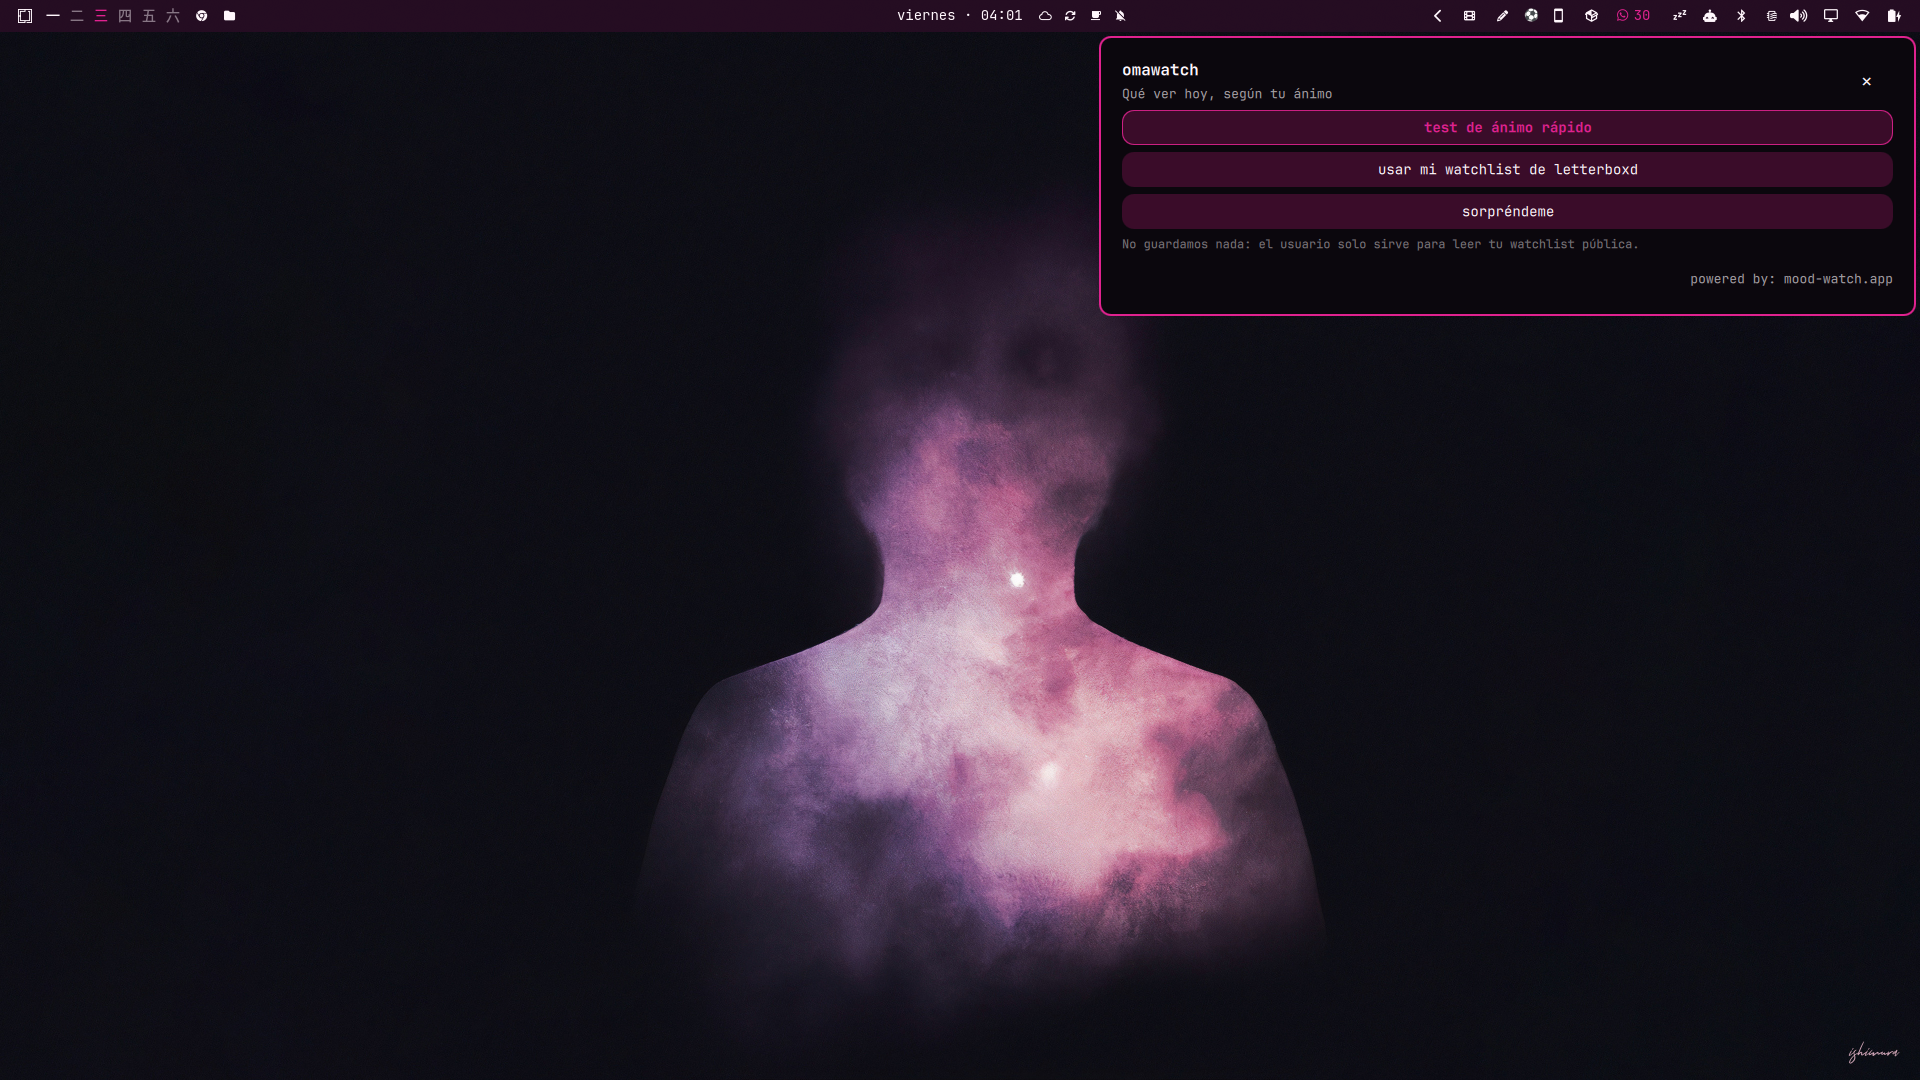
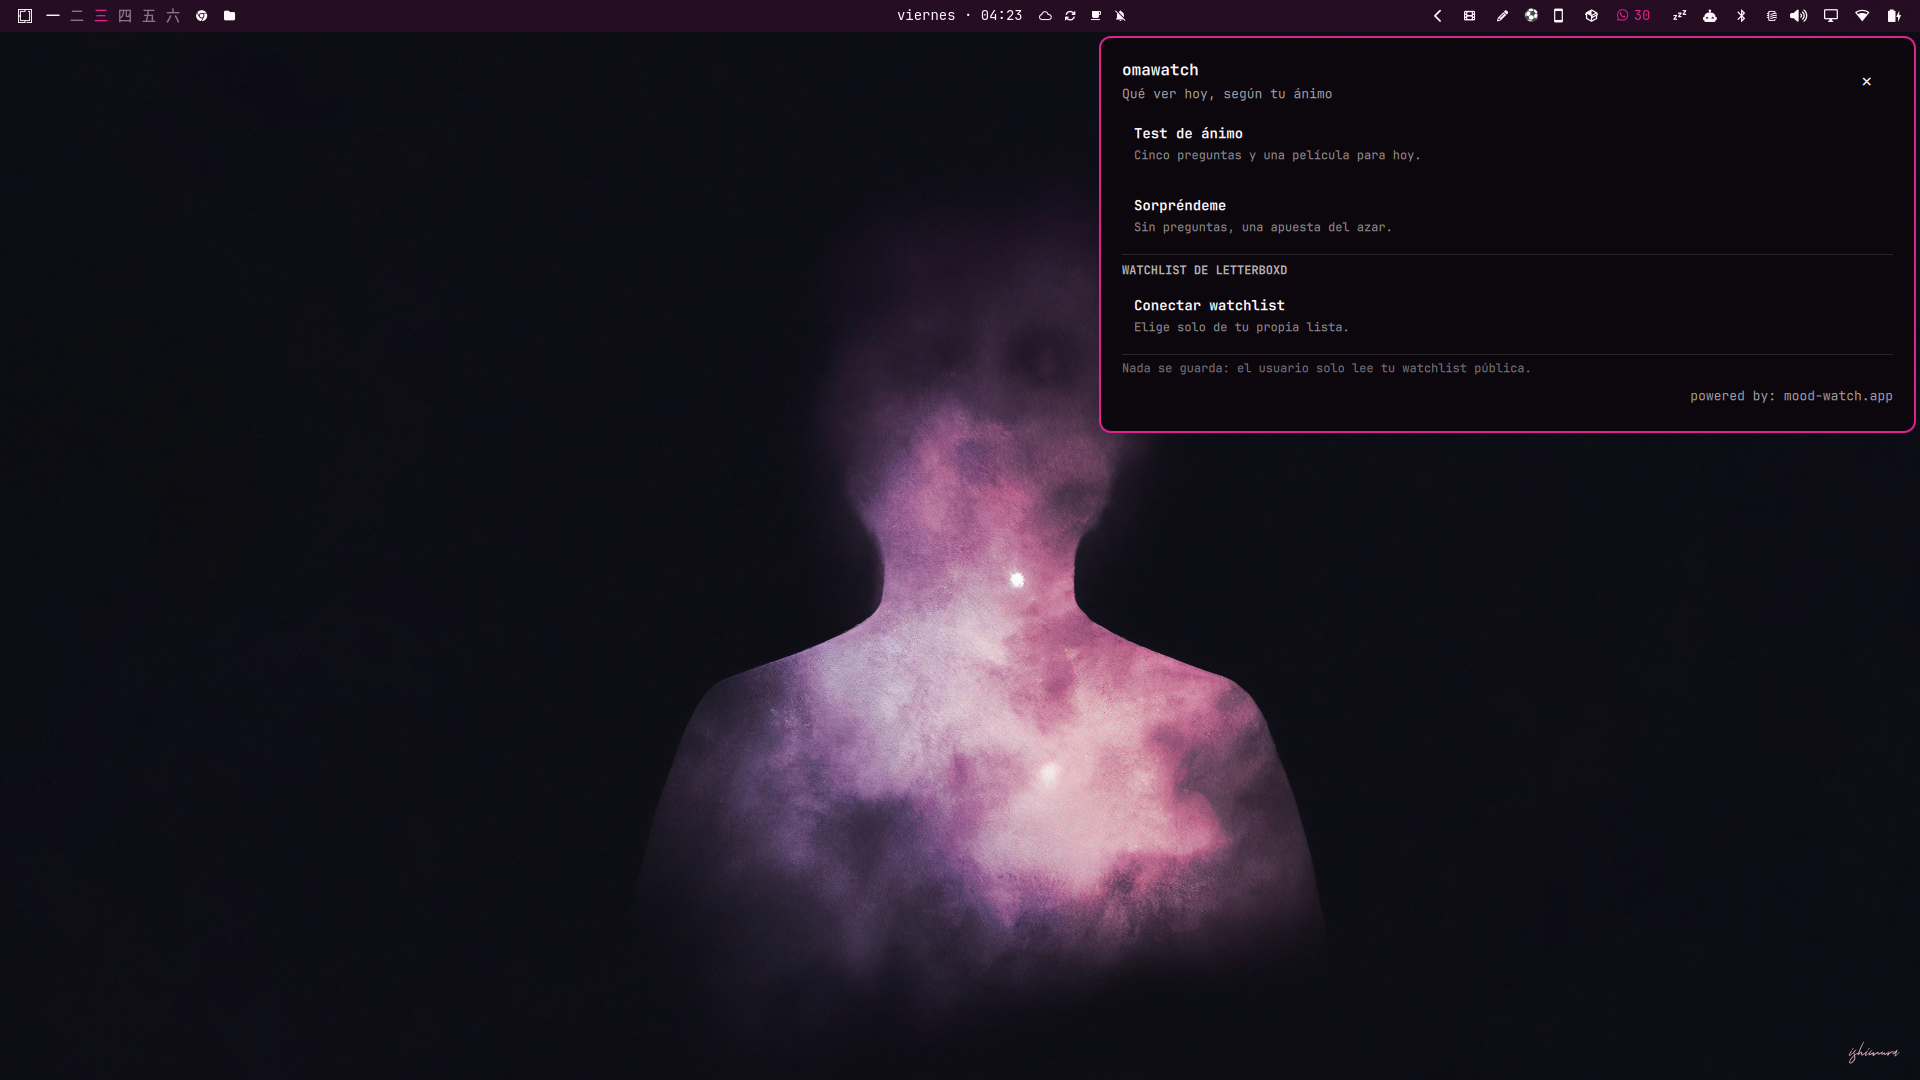
release: omawatch 1.0.4 with first-party panel grammar

Changed region(s): [[0.5625, 0.0917, 1.0, 0.3972], [0.6562, 0.3361, 0.7812, 0.3667], [0.875, 0.2444, 0.9688, 0.275]]

diff --git a/Omawatch.qml b/Omawatch.qml
@@ -18,7 +18,7 @@ Item {
       ? Style.space(340)
       : root.phase === "letterboxd" || root.phase === "syncing"
         ? Style.space(460)
-        : Style.space(240)
+        : Style.space(340)
   property bool opened: false
   property bool busy: false
   property int requestId: 0
@@ -39,6 +39,24 @@ Item {
   property bool usingWatchlist: false
 
   function words(es, en) { return root.isSpanish ? es : en }
+
+  function isChipQuestion() {
+    return root.currentQuestion && ["runtime", "tone"].indexOf(root.currentQuestion.key) !== -1
+  }
+
+  function quizOptionLabel(option) {
+    if (!root.currentQuestion || !option) return ""
+    if (root.currentQuestion.key === "runtime") {
+      if (option.value === "short") return root.words("corto", "short")
+      if (option.value === "medium") return root.words("medio", "medium")
+      if (option.value === "long") return root.words("largo", "long")
+    }
+    if (root.currentQuestion.key === "tone") {
+      if (option.value === "dark") return root.words("oscuro", "dark")
+      if (option.value === "light") return root.words("luminoso", "light")
+    }
+    return root.isSpanish ? option.es : option.en
+  }
 
   readonly property var quiz: [
     {
@@ -387,6 +405,65 @@ Item {
     onTriggered: root.pollSync()
   }
 
+  // Display-panel action row: full-width hover surface with a bold title and
+  // a dimmed one-line description. Mirrors the first-party row grammar.
+  component ActionRow: CursorSurface {
+    id: actionRow
+
+    property string title: ""
+    property string description: ""
+    property bool enabled: true
+    signal clicked()
+
+    implicitHeight: actionContent.implicitHeight + Style.spacing.rowPaddingX * 2
+    foreground: Color.menu.text
+    accent: Color.accent
+    radius: Style.cornerRadius
+
+    MouseArea {
+      id: actionMouse
+      anchors.fill: parent
+      enabled: actionRow.enabled
+      cursorShape: actionRow.enabled ? Qt.PointingHandCursor : Qt.ArrowCursor
+      onClicked: if (actionRow.enabled) actionRow.clicked()
+    }
+
+    Column {
+      id: actionContent
+      anchors.left: parent.left
+      anchors.right: parent.right
+      anchors.verticalCenter: parent.verticalCenter
+      anchors.leftMargin: Style.space(10)
+      anchors.rightMargin: Style.space(10)
+      spacing: Style.spacing.xs
+
+      Text {
+        textFormat: Text.PlainText
+        width: parent.width
+        text: actionRow.title
+        color: actionRow.enabled ? actionRow.foreground : Qt.darker(actionRow.foreground, 2.0)
+        font.family: Style.font.menuFamily
+        font.pixelSize: Style.font.body
+        font.bold: true
+        elide: Text.ElideRight
+        maximumLineCount: 1
+      }
+
+      Text {
+        textFormat: Text.PlainText
+        width: parent.width
+        visible: actionRow.description !== ""
+        text: actionRow.description
+        color: actionRow.foreground
+        opacity: actionRow.enabled ? 0.55 : 0.3
+        font.family: Style.font.menuFamily
+        font.pixelSize: Style.font.caption
+        elide: Text.ElideRight
+        maximumLineCount: 1
+      }
+    }
+  }
+
   PanelWindow {
     id: panel
     screen: Quickshell.screens[0]
@@ -551,73 +628,89 @@ Item {
             width: content.width
             spacing: Style.spacing.md
 
-            // HOME
+            // HOME — Display-panel grammar: sections, dividers, label rows.
             Column {
               width: parent.width
               visible: root.phase === "home"
-              spacing: Style.spacing.md
+              spacing: Style.spacing.sm
 
-              Button {
+              opacity: root.busy ? 0.45 : 1.0
+              Behavior on opacity { NumberAnimation { duration: 150 } }
+
+              ActionRow {
                 width: parent.width
-                selected: true
-                active: !root.busy
-                text: root.words("test de ánimo rápido", "quick mood test")
-                tooltipText: root.words("Cinco preguntas y te recomiendo una película.", "Five questions and I recommend a film.")
+                enabled: !root.busy
+                title: root.words("Test de ánimo", "Quick mood test")
+                description: root.words("Cinco preguntas y una película para hoy.", "Five questions and one film for tonight.")
                 onClicked: root.startQuiz(false)
               }
 
-              Button {
+              ActionRow {
                 width: parent.width
-                active: !root.busy
-                visible: root.watchlistToken === ""
-                text: root.words("usar mi watchlist de letterboxd", "use my letterboxd watchlist")
-                tooltipText: root.words("Conecta tu cuenta y elige de tu propia lista.", "Connect your account and pick from your own list.")
-                onClicked: { root.phase = "letterboxd"; root.status = "" }
+                enabled: !root.busy
+                title: root.words("Sorpréndeme", "Surprise me")
+                description: root.words("Sin preguntas, una apuesta del azar.", "No questions, a random wager.")
+                onClicked: root.surpriseMe()
               }
+
+              PanelSeparator { foreground: Color.menu.text }
 
               Column {
                 width: parent.width
-                visible: root.watchlistToken !== ""
-                spacing: Style.spacing.sm
+                spacing: Style.spacing.xs
 
-                Button {
+                PanelSectionHeader {
                   width: parent.width
-                  selected: true
-                  active: !root.busy
-                  text: root.words("elegir de mi watchlist", "pick from my watchlist")
-                  tooltipText: root.words("Test de ánimo + tu watchlist de Letterboxd.", "Mood test + your Letterboxd watchlist.")
-                  onClicked: root.startQuiz(true)
+                  foreground: Color.menu.text
+                  fontFamily: Style.font.menuFamily
+                  text: root.watchlistToken !== ""
+                    ? root.words("CUENTA · @" + root.username.toUpperCase(), "ACCOUNT · @" + root.username.toUpperCase())
+                    : root.words("WATCHLIST DE LETTERBOXD", "LETTERBOXD WATCHLIST")
                 }
 
-                Text {
-                  textFormat: Text.PlainText
+                ActionRow {
                   width: parent.width
-                  text: root.words("Conectado como @" + root.username, "Connected as @" + root.username)
-                  color: Color.menu.text
-                  opacity: 0.55
-                  font.family: Style.font.menuFamily
-                  font.pixelSize: Style.font.caption
+                  enabled: !root.busy
+                  visible: root.watchlistToken === ""
+                  title: root.words("Conectar watchlist", "Connect watchlist")
+                  description: root.words("Elige solo de tu propia lista.", "Pick only from your own list.")
+                  onClicked: { root.phase = "letterboxd"; root.status = "" }
                 }
 
-                Button {
-                  text: root.words("desconectar", "disconnect")
-                  active: !root.busy
-                  onClicked: root.disconnectLetterboxd()
+                Row {
+                  width: parent.width
+                  visible: root.watchlistToken !== ""
+                  height: disconnectBtn.height
+                  spacing: Style.spacing.md
+
+                  ActionRow {
+                    id: pickWlBtn
+                    width: parent.width - disconnectBtn.width - parent.spacing
+                    enabled: !root.busy
+                    title: root.words("Elegir de mi watchlist", "Pick from my watchlist")
+                    description: root.words("Test de ánimo sobre tu lista.", "Mood test over your list.")
+                    onClicked: root.startQuiz(true)
+                  }
+
+                  PanelActionButton {
+                    id: disconnectBtn
+                    anchors.verticalCenter: parent.verticalCenter
+                    iconText: "×"
+                    foreground: Color.menu.text
+                    fontFamily: Style.font.menuFamily
+                    tooltipText: root.words("Desconectar watchlist", "Disconnect watchlist")
+                    enabled: !root.busy
+                    onClicked: root.disconnectLetterboxd()
+                  }
                 }
               }
 
-              Button {
-                width: parent.width
-                active: !root.busy
-                text: root.words("sorpréndeme", "surprise me")
-                tooltipText: root.words("Sin preguntas, una apuesta del azar.", "No questions, a random wager.")
-                onClicked: root.surpriseMe()
-              }
+              PanelSeparator { foreground: Color.menu.text }
 
               Text {
                 textFormat: Text.PlainText
                 width: parent.width
-                text: root.words("No guardamos nada: el usuario solo sirve para leer tu watchlist pública.", "Nothing is stored: the username is only used to read your public watchlist.")
+                text: root.words("Nada se guarda: el usuario solo lee tu watchlist pública.", "Nothing is stored: the username only reads your public watchlist.")
                 color: Color.menu.text
                 opacity: 0.45
                 font.family: Style.font.menuFamily
@@ -626,11 +719,14 @@ Item {
               }
             }
 
-            // QUIZ
+            // QUIZ — chips for discrete axes, buttons for open ones.
             Column {
               width: parent.width
               visible: root.phase === "quiz"
               spacing: Style.spacing.md
+
+              opacity: root.busy ? 0.45 : 1.0
+              Behavior on opacity { NumberAnimation { duration: 150 } }
 
               Text {
                 textFormat: Text.PlainText
@@ -643,7 +739,24 @@ Item {
                 wrapMode: Text.Wrap
               }
 
+              ButtonGroup {
+                width: parent.width
+                visible: root.isChipQuestion()
+                focusable: false
+                enabled: !root.busy
+                foreground: Color.menu.text
+                background: Color.menu.background
+                accent: Color.accent
+                fontFamily: Style.font.menuFamily
+                value: ""
+                options: root.currentQuestion ? root.currentQuestion.options.map(function(o) {
+                  return { value: o.value, label: root.quizOptionLabel(o) }
+                }) : []
+                onChanged: root.answerQuestion(value)
+              }
+
               Repeater {
+                visible: !root.isChipQuestion()
                 model: root.currentQuestion ? root.currentQuestion.options : []
 
                 delegate: Button {
